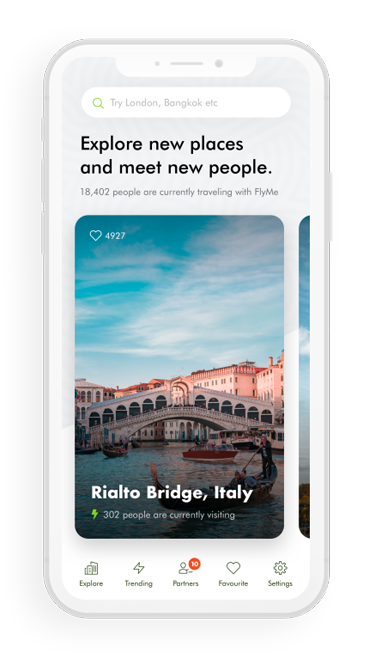
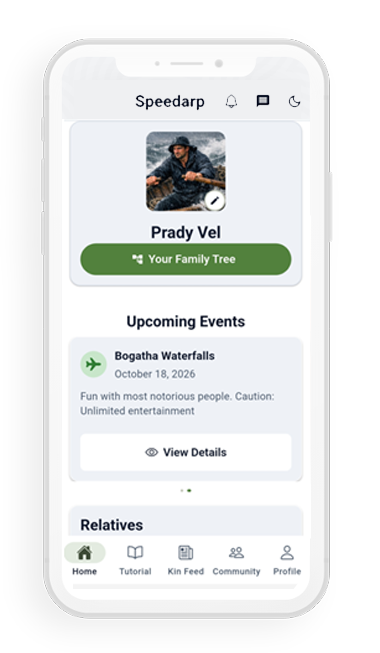
added

diff --git a/speedarp/index.html b/speedarp/index.html
@@ -99,8 +99,8 @@
                         <div class="home-slider">
                             <div class="hero-text">
                                 <h5 class="wow fadeInUp" data-wow-delay=".3s" style="visibility: visible; animation-delay: 0.3s; animation-name: fadeInUp;">Introducing Speedarp</h5>
-                                <h1 class="wow fadeInUp" data-wow-delay=".5s" style="visibility: visible; animation-delay: 0.5s; animation-name: fadeInUp;">Boost Your App’s <br> Reach with Speedarp</h1>
-                                <p class="wow fadeInUp" data-wow-delay=".7s" style="visibility: visible; animation-delay: 0.7s; animation-name: fadeInUp;">It is considered as one of the<br>core values of the organization<br><br><i>Reach more users. Build visibility. Grow faster.</i></p>
+                                <h1 class="wow fadeInUp" data-wow-delay=".5s" style="visibility: visible; animation-delay: 0.5s; animation-name: fadeInUp;">Because your legacy<br>deserves to be preserved. </h1>
+                                <p class="wow fadeInUp" data-wow-delay=".7s" style="visibility: visible; animation-delay: 0.7s; animation-name: fadeInUp;">In a world where family bonds risk fading,<br>Speedarp empowers you to safeguard traditions,<br>nurture priceless connections, and ensure your family <br>legacy continues across generations.</p>
                                    
                                 <div class="button wow fadeInUp" data-wow-delay=".9s" style="visibility: visible; animation-delay: 0.9s; animation-name: fadeInUp;">
                                     <a href="#" class="btn"><i class="lni lni-playstore"></i> Play Store</a>
@@ -134,10 +134,9 @@
                 <div class="col-12">
                     <div class="section-title">
                         <span class="wow fadeInDown" data-wow-delay=".2s" style="visibility: visible; animation-delay: 0.2s; animation-name: fadeInDown;">Features</span>
-                        <h2 class="wow fadeInUp" data-wow-delay=".4s" style="visibility: visible; animation-delay: 0.4s; animation-name: fadeInUp;">Checkout Our Software<br>
+                        <h2 class="wow fadeInUp" data-wow-delay=".4s" style="visibility: visible; animation-delay: 0.4s; animation-name: fadeInUp;">Check Out Our New Features<br>
                             Features Below.</h2>
-                        <p class="wow fadeInUp" data-wow-delay=".6s" style="visibility: visible; animation-delay: 0.6s; animation-name: fadeInUp;">Lorem ipsum dolor sit amet, consectetur adipisicing
-                            elit sed do eiusmod tempor incididunt ut labore et dolore magna aliqua.</p>
+                        <p class="wow fadeInUp" data-wow-delay=".6s" style="visibility: visible; animation-delay: 0.6s; animation-name: fadeInUp;">Discover how Speedarp preserves legacy through family tree, customizable events, and stories that live beyond generations..</p>
                     </div>
                 </div>
             </div>
@@ -149,8 +148,8 @@
                             <div class="feature-icon">
                                 <i class="lni lni-rocket"></i>
                             </div>
-                            <h3>Speed Optimization</h3>
-                            <p>Consectetur adipiscing elit, sed do eiusmod tempor incididunt ut labore et dolor</p>
+                            <h3>Family&nbsp;Tree</h3>
+                            <!-- <p>Consectetur adipiscing elit, sed do eiusmod tempor incididunt ut labore et dolor</p> -->
                         </div>
                         <!-- End Single Feature -->
                     </div>
@@ -160,8 +159,8 @@
                             <div class="feature-icon">
                                 <i class="lni lni-wechat"></i>
                             </div>
-                            <h3>Live Chat</h3>
-                            <p>Consectetur adipiscing elit, sed do eiusmod tempor incididunt ut labore et dolor</p>
+                            <h3>Events</h3>
+                            <!-- <p>Consectetur adipiscing elit, sed do eiusmod tempor incididunt ut labore et dolor</p> -->
                         </div>
                         <!-- End Single Feature -->
                     </div>
@@ -171,8 +170,8 @@
                             <div class="feature-icon">
                                 <i class="lni lni-layers"></i>
                             </div>
-                            <h3>Secure Data</h3>
-                            <p>Consectetur adipiscing elit, sed do eiusmod tempor incididunt ut labore et dolor</p>
+                            <h3>Dedicated&nbsp;Family&nbsp;Privacy</h3>
+                            <!-- <p>Consectetur adipiscing elit, sed do eiusmod tempor incididunt ut labore et dolor</p> -->
                         </div>
                         <!-- End Single Feature -->
                     </div>
@@ -182,8 +181,8 @@
                             <div class="feature-icon">
                                 <i class="lni lni-timer"></i>
                             </div>
-                            <h3>Optimize Time</h3>
-                            <p>Consectetur adipiscing elit, sed do eiusmod tempor incididunt ut labore et dolor</p>
+                            <h3>Highly&nbsp;interactive&nbsp;features </h3>
+                            <!-- <p>Consectetur adipiscing elit, sed do eiusmod tempor incididunt ut labore et dolor</p> -->
                         </div>
                         <!-- End Single Feature -->
                     </div>
@@ -207,26 +206,35 @@
                         <div class="section-title">
                             <span>App Details</span>
                             <h2>Why Use This App</h2>
-                            <p>Lorem ipsum dolor sit amet, consectetur adipisicing elit sed do eiusmod tempor incididunt
-                                ut labore et dolore magna aliqua. Ut enim ad minim veniam, quis nostrud exercitation
-                                ullamco.</p>
+                            <!-- <p>Lorem ipsum dolor sit amet, consectetur adipisicing elit sed do eiusmod tempor incididunt -->
+                                <!-- ut labore et dolore magna aliqua. Ut enim ad minim veniam, quis nostrud exercitation -->
+                                <!-- ullamco.</p> -->
                         </div>
                         <ul>
                             <li>
-                                <i class="lni lni-map"></i> <span>Travel Tools</span>
-                                <p>Lorem ipsum dolor sit amet, consectetur adipisicing elit sed do eiusmod tempor
-                                    incididunt ut labore et dolore.</p>
+                                <i class="lni lni-map"></i> <span>First-of-its-kind family networking: </span>
+                                <p>Speedarp blends the best of social networking with dedicated privacy, designed exclusively for families and relatives.</p>
                             </li>
                             <li>
-                                <i class="lni lni-travel"></i> <span>Seat Tracker</span>
-                                <p>Lorem ipsum dolor sit amet, consectetur adipisicing elit sed do eiusmod tempor
-                                    incididunt ut labore et dolore magna aliqua. Ut enim ad minim veniam quis nostrud.
+                                <i class="lni lni-travel"></i> <span>Family Tree without DNA: </span>
+                                <p>Create your own family tree easily — no DNA data required. Even add the loved ones who passed away (remembered) to your family tree. 
                                 </p>
                             </li>
                             <li>
-                                <i class="lni lni-map-marker"></i> <span>Point Tracker</span>
-                                <p>Lorem ipsum dolor sit amet, consectetur adipisicing elit sed do eiusmod tempor
-                                    incididunt ut labore et dolore.</p>
+                                <i class="lni lni-map-marker"></i> <span>Customized Family Events </span>
+                                <p>Celebrate milestones like anniversaries, housewarmings, baby showers, retirement parties, and more with personalized event creation. It is also possible to remain updated on upcoming events and track the previous events. </p>
+                            </li>
+							  <li>
+                                <i class="lni lni-map-marker"></i> <span>Occupational Compass: </span>
+                                <p>Discover the professional diversity among your family members, cousins and relatives. </p>
+                            </li>
+							  <li>
+                                <i class="lni lni-map-marker"></i> <span>Private Image Sharing </span>
+                                <p>Photos and memories remain within your trusted circle — shared only among family members, cousins, and relatives.</p>
+                            </li>
+							 <li>
+                                <i class="lni lni-map-marker"></i> <span>Growing Community</span>
+                                <p>Already trusted by 100+ families on Play Store, Speedarp is building a vibrant network of legacy keepers.</p>
                             </li>
                         </ul>
                     </div>
@@ -245,23 +253,23 @@
                         <div class="section-title">
                             <span>New Feature</span>
                             <h2>Connect and share with right audience of
-                                Xpeedo.</h2>
-                            <p>Lorem ipsum dolor sit amet, consectetur adipisicing elit sed do eiusmod tempor incididunt
-                                ut labore et dolore magna aliqua. Ut enim ad minim veniam, quis nostrud exercitation
-                                ullamco.</p>
+                                Speedarp.</h2>
+                            <!-- <p>Lorem ipsum dolor sit amet, consectetur adipisicing elit sed do eiusmod tempor incididunt -->
+                                <!-- ut labore et dolore magna aliqua. Ut enim ad minim veniam, quis nostrud exercitation -->
+                                <!-- ullamco.</p> -->
                         </div>
                         <ul>
                             <li>
-                                <i class="lni lni-check-mark-circle"></i> User-friendly, modern and intuitive.
+                                <i class="lni lni-check-mark-circle"></i> <strong>Cousin Bonding Score:</strong> Gamify your bonding with cousins — track and celebrate closeness through playful scoring.
                             </li>
                             <li>
-                                <i class="lni lni-check-mark-circle"></i> Updated mobile design &amp; features.
+                                <i class="lni lni-check-mark-circle"></i> <strong>Cousin Compass: </strong>Discover where your cousins are spread across the worldand remain connected no matter the distance.
                             </li>
                             <li>
-                                <i class="lni lni-check-mark-circle"></i> Beautiful icons, typography and images.
+                                <i class="lni lni-check-mark-circle"></i> <strong>Memory Keeper:</strong> Designate three relatives who know the stories beyond generations — safeguard traditions and family lore.
                             </li>
                             <li>
-                                <i class="lni lni-check-mark-circle"></i> Extendable premium customer support.
+                                <i class="lni lni-check-mark-circle"></i><strong>Ritual Recorder:</strong> Preserve the timeless family rituals and celebrations passed down through generations.
                             </li>
                         </ul>
                     </div>
@@ -338,7 +346,7 @@
 </section>
     <!-- End App Screenshort Area -->
 
-    <!-- Start Achivement Area -->
+    <!-- Start Achivement Area
     <section class="our-achievement section">
         <div class="container">
             <div class="row">
@@ -384,8 +392,7 @@
                     <div class="section-title">
                         <span class="wow fadeInDown" data-wow-delay=".2s" style="visibility: visible; animation-delay: 0.2s; animation-name: fadeInDown;">Get the apps</span>
                         <h2 class="wow fadeInUp" data-wow-delay=".4s" style="visibility: visible; animation-delay: 0.4s; animation-name: fadeInUp;">Download Platform</h2>
-                        <p class="wow fadeInUp" data-wow-delay=".6s" style="visibility: visible; animation-delay: 0.6s; animation-name: fadeInUp;">Lorem ipsum dolor sit amet, consectetur adipisicing
-                            elit sed do eiusmod tempor incididunt ut labore et dolore magna aliqua.</p>
+                        <p class="wow fadeInUp" data-wow-delay=".6s" style="visibility: visible; animation-delay: 0.6s; animation-name: fadeInUp;">Download our app and stay connected with our platform wherever you go. Enjoy a fast, simple, and seamless experience on any device.</p>
                     </div>
                 </div>
             </div>
@@ -393,7 +400,7 @@
                 <div class="col-lg-6 col-md-6 col-12">
                     <div class="single-download wow fadeInUp" data-wow-delay=".2s" style="visibility: visible; animation-delay: 0.2s; animation-name: fadeInUp;">
                         <h3 class="counter">Download from Google Play</h3>
-                        <p>The limited liability is, in fact, the only type of company</p>
+                        <p>Celebrate your roots — get Speedarp on Android today.</p>
                         <div class="button">
                             <a href="#" class="btn">
                                 <i class="lni lni-playstore"></i>
@@ -406,7 +413,7 @@
                 <div class="col-lg-6 col-md-6 col-12">
                     <div class="single-download wow fadeInUp" data-wow-delay=".4s" style="visibility: visible; animation-delay: 0.4s; animation-name: fadeInUp;">
                         <h3 class="counter">Download from Apple Store</h3>
-                        <p>The limited liability is, in fact, the only type of company</p>
+                        <p>Bond beyond generations- download Speedarp now for your iPhone or iPad.</p>
                         <div class="button">
                             <a href="#" class="btn">
                                 <i class="lni lni-apple"></i>
@@ -445,69 +452,110 @@
                     <div class="section-title align-left">
                         <span class="wow fadeInDown" data-wow-delay=".2s" style="visibility: visible; animation-delay: 0.2s; animation-name: fadeInDown;">Frequently asked questions</span>
                         <h2 class="wow fadeInUp" data-wow-delay=".4s" style="visibility: visible; animation-delay: 0.4s; animation-name: fadeInUp;">We have some FAQ to<br> inform you more</h2>
-                        <p class="wow fadeInUp" data-wow-delay=".6s" style="visibility: visible; animation-delay: 0.6s; animation-name: fadeInUp;">There are many variations of passages of Lorem
-                            Ipsum available, but the majority have suffered alteration in some form.</p>
+                        <!-- <p class="wow fadeInUp" data-wow-delay=".6s" style="visibility: visible; animation-delay: 0.6s; animation-name: fadeInUp;">There are many variations of passages of Lorem -->
+                            <!-- Ipsum available, but the majority have suffered alteration in some form.</p> -->
                     </div>
                     <div class="accordion" id="accordionExample">
                         <div class="accordion-item">
                             <h2 class="accordion-header" id="headingOne">
                                 <button class="accordion-button collapsed" type="button" data-bs-toggle="collapse" data-bs-target="#collapseOne" aria-expanded="false" aria-controls="collapseOne">
-                                    <span>Material types can you work with?</span><i class="lni lni-chevron-down"></i>
+                                    <span>What is Speedarp?</span><i class="lni lni-chevron-down"></i>
                                 </button>
                             </h2>
                             <div id="collapseOne" class="accordion-collapse collapse" aria-labelledby="headingOne" data-bs-parent="#accordionExample" style="">
                                 <div class="accordion-body">
-                                    <p>Lorem ipsum dolor sit amet, consectetur adipiscing elit, sed do eiusmod
-                                        tempor incididunt ut labore et dolore magna aliqua. Quis ipsum suspendisse
-                                        ultrices gravida.</p>
+                                    <p>Speedarp is a dedicated family networking and legacy-preservation app designed to help families stay connected, preserve memories, discover family connections, and build a living record of their family heritage.</p>
                                 </div>
                             </div>
                         </div>
                         <div class="accordion-item">
                             <h2 class="accordion-header" id="headingTwo">
                                 <button class="accordion-button collapsed" type="button" data-bs-toggle="collapse" data-bs-target="#collapseTwo" aria-expanded="false" aria-controls="collapseTwo">
-                                    <span>Is Smart Lock required for instant apps?</span><i class="lni lni-chevron-down"></i>
+                                    <span>Is Speedarp a genealogy or DNA-testing app?</span><i class="lni lni-chevron-down"></i>
                                 </button>
                             </h2>
                             <div id="collapseTwo" class="accordion-collapse collapse" aria-labelledby="headingTwo" data-bs-parent="#accordionExample" style="">
                                 <div class="accordion-body">
-                                    <p>Lorem ipsum dolor sit amet, consectetur adipiscing elit, sed do eiusmod
-                                        tempor incididunt ut labore et dolore magna aliqua. Quis ipsum suspendisse
-                                        ultrices gravida.</p>
-                                    <p>Lorem ipsum dolor sit amet, consectetur adipiscing elit, sed do eiusmod
-                                        tempor incididunt ut labore et dolore magna aliqua. Quis ipsum suspendisse
-                                        ultrices gravida.</p>
+                                    <p>No. Speedarp is not a genealogy or DNA-testing platform. You do not need DNA data, genetic testing, or genealogical databases to use Speedarp. Families can create and manage their own family connections directly within the app.</p>
+                                   
                                 </div>
                             </div>
                         </div>
                         <div class="accordion-item">
                             <h2 class="accordion-header" id="headingThree">
                                 <button class="accordion-button collapsed" type="button" data-bs-toggle="collapse" data-bs-target="#collapseThree" aria-expanded="false" aria-controls="collapseThree">
-                                    <span>Can I have multiple activities in a single feature?</span><i class="lni lni-chevron-down"></i>
+                                    <span>What makes Speedarp different from Meta(Facebook), Instagram and WhatsApp?</span><i class="lni lni-chevron-down"></i>
                                 </button>
                             </h2>
                             <div id="collapseThree" class="accordion-collapse collapse" aria-labelledby="headingThree" data-bs-parent="#accordionExample" style="">
                                 <div class="accordion-body">
-                                    <p>Lorem ipsum dolor sit amet, consectetur adipiscing elit, sed do eiusmod
-                                        tempor incididunt ut labore et dolore magna aliqua. Quis ipsum suspendisse
-                                        ultrices gravida.</p>
+                                    <p>Speedarp is designed specifically around family relationships and family privacy. Instead of mixing family interactions with a broader social network, Speedarp provides a dedicated environment where families can build their family tree, share memories, create family-specific events, discover occupations and relationships, and preserve their heritage. <a href="#">Click here to know the differences (I’ll send a related file to this)</a></p>
                                 </div>
                             </div>
                         </div>
                         <div class="accordion-item">
                             <h2 class="accordion-header" id="headingFour">
                                 <button class="accordion-button" type="button" data-bs-toggle="collapse" data-bs-target="#collapseFour" aria-expanded="true" aria-controls="collapseFour">
-                                    <span>Can I share resources between features?</span><i class="lni lni-chevron-down"></i>
+                                    <span>Do I need to know my complete family history to create a family tree?</span><i class="lni lni-chevron-down"></i>
                                 </button>
                             </h2>
                             <div id="collapseFour" class="accordion-collapse collapse show" aria-labelledby="headingFour" data-bs-parent="#accordionExample" style="">
                                 <div class="accordion-body">
-                                    <p>Lorem ipsum dolor sit amet, consectetur adipiscing elit, sed do eiusmod
-                                        tempor incididunt ut labore et dolore magna aliqua. Quis ipsum suspendisse
-                                        ultrices gravida.</p>
+                                    <p>No. You can start with the family members and relationships you know and expand the family tree over time.</p>
                                 </div>
                             </div>
                         </div>
+						
+						  <div class="accordion-item">
+                            <h2 class="accordion-header" id="headingFour">
+                                <button class="accordion-button" type="button" data-bs-toggle="collapse" data-bs-target="#collapseFour" aria-expanded="true" aria-controls="collapseFive">
+                                    <span>Why does Speedarp ask for my occupation?</span><i class="lni lni-chevron-down"></i>
+                                </button>
+                            </h2>
+                            <div id="collapseFive" class="accordion-collapse collapse show" aria-labelledby="headingFour" data-bs-parent="#accordionExample" style="">
+                                <div class="accordion-body">
+                                    <p>Occupation is used to support features such as Occupational Compass and help families discover the professional diversity and expertise among their relatives and cousins apart from their family members. </p>
+                                </div>
+                            </div>
+                        </div>
+								  <div class="accordion-item">
+                            <h2 class="accordion-header" id="headingFour">
+                                <button class="accordion-button" type="button" data-bs-toggle="collapse" data-bs-target="#collapseFour" aria-expanded="true" aria-controls="collapseSix">
+                                    <span>Who can see the content I share on Speedarp?</span><i class="lni lni-chevron-down"></i>
+                                </button>
+                            </h2>
+                            <div id="collapseSix" class="accordion-collapse collapse show" aria-labelledby="headingFour" data-bs-parent="#accordionExample" style="">
+                                <div class="accordion-body">
+                                    <p>Speedarp is designed to keep family content within the intended family network rather than exposing it to a general public audience.</p>
+                                </div>
+                            </div>
+                        </div>
+						
+						 <div class="accordion-item">
+                            <h2 class="accordion-header" id="headingFour">
+                                <button class="accordion-button" type="button" data-bs-toggle="collapse" data-bs-target="#collapseFour" aria-expanded="true" aria-controls="collapseSeven">
+                                    <span>Do I have to share all my personal information?</span><i class="lni lni-chevron-down"></i>
+                                </button>
+                            </h2>
+                            <div id="collapseSeven" class="accordion-collapse collapse show" aria-labelledby="headingFour" data-bs-parent="#accordionExample" style="">
+                                <div class="accordion-body">
+                                    <p>No. Speedarp is designed around the information needed to build meaningful family connections. Users should only provide information they are comfortable sharing within the app.</p>
+                                </div>
+                            </div>
+                        </div>
+							 <div class="accordion-item">
+                            <h2 class="accordion-header" id="headingFour">
+                                <button class="accordion-button" type="button" data-bs-toggle="collapse" data-bs-target="#collapseFour" aria-expanded="true" aria-controls="collapseEight">
+                                    <span>Why should my family use Speedarp?</span><i class="lni lni-chevron-down"></i>
+                                </button>
+                            </h2>
+                            <div id="collapseEight" class="accordion-collapse collapse show" aria-labelledby="headingFour" data-bs-parent="#accordionExample" style="">
+                                <div class="accordion-body">
+                                    <p>Because your family is more than a contact list or a WhatsApp group. Speedarp is designed to give your family a dedicated digital space to connect, celebrate, remember, discover and preserve its legacy.</p>
+                                </div>
+                            </div>
+                        </div>
+						
                     </div>
                 </div>
                 <div class="col-lg-6 col-12">
@@ -620,7 +668,7 @@
                     <div class="row">
                         <div class="col-12">
                             <div class="left">
-                                <p>Designed and Developed by<a href="#" rel="nofollow" target="_blank">Gagan</a></p>
+                                <p>Designed and Developed by<a href="#" rel="nofollow" target="_blank">Speedarp</a></p>
                             </div>
                         </div>
                     </div>

diff --git a/speedarp/assets/css/main.css b/speedarp/assets/css/main.css
@@ -2984,7 +2984,7 @@ ol {
 
 .app-description .right ul li {
   display: block;
-  margin-bottom: 35px;
+  margin-bottom: 20px;
   position: relative;
   padding-left: 90px;
 }
